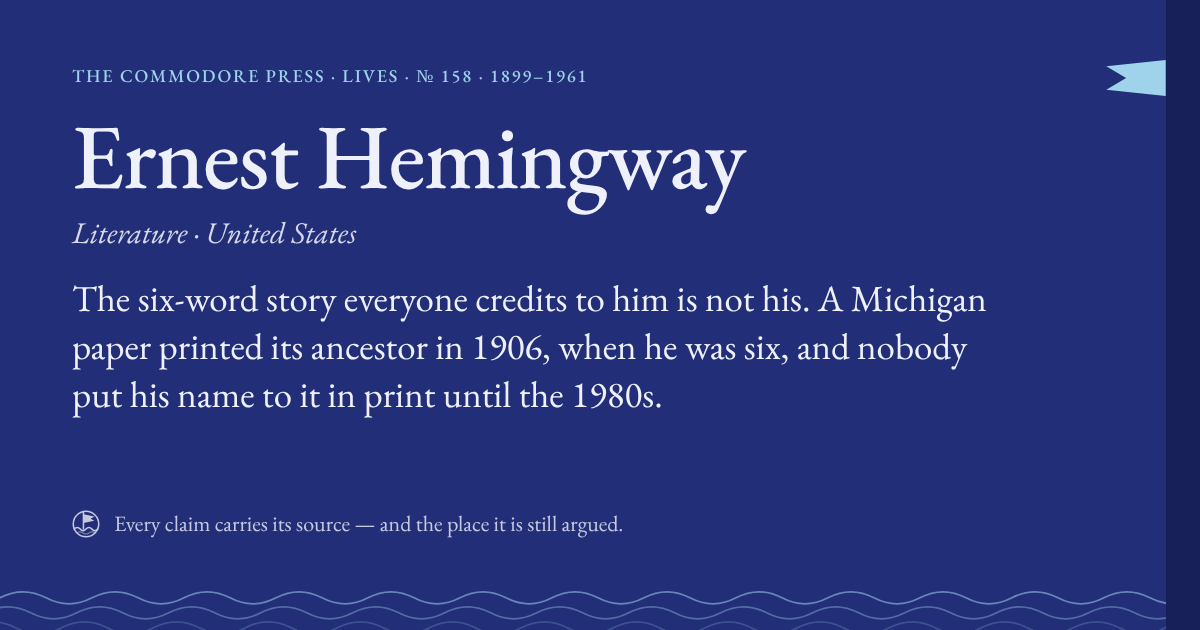
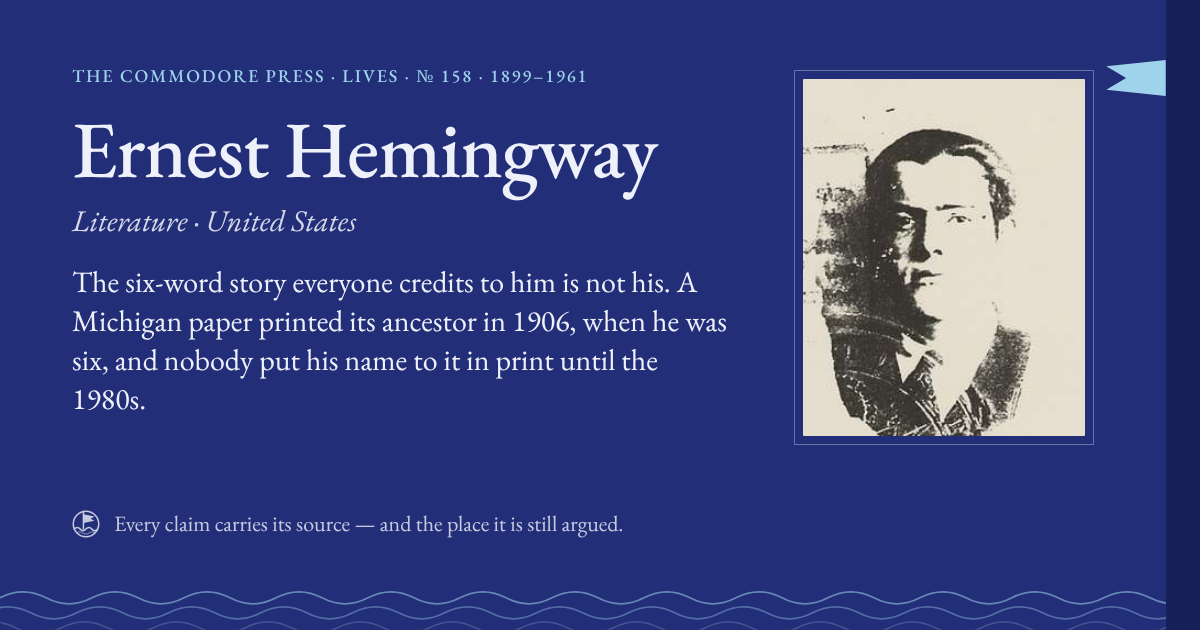
Hemingway's plate, from his 1921 passport
NARA 192687, public domain as a State Department work, cut from Commons'
1920px rendering (the original kept returning HTTP 429). The Anefo 'CC0'
head was rejected: it is a 1970 rephotograph of another photographer's
print, so the dedication does not reach the picture itself.

Claude-Session: https://claude.ai/code/session_014HRTUstFxiVmPduXRyZaCy

Changed region(s): [[0.0617, 0.1206, 0.925, 0.6937], [0.0617, 0.181, 0.6167, 0.3619], [0.0617, 0.3317, 0.3083, 0.3921]]

diff --git a/dashboard/commissions.md b/dashboard/commissions.md
@@ -24,7 +24,7 @@ in it carries a named source.
 | ready | Lives | Three more from *The Lessons of History*, № 155–157: Diocletian, Augustus, Ashoka | Picked by Luca 2026-11-03. Diocletian: the Durants have him say 'the barbarians were at the gate'; his Price Edict's own preamble (Kropff translation) opens on barbarian wars already won and names the soldier who loses his pay on one purchase; the failure rests on Lactantius alone, who also says the abdication was forced. Augustus: the advice to stop at the frontiers came after Varus lost three legions (Suetonius 23) and was read from a register in his own hand after his death (Tacitus 1.11), beside a Res Gestae that boasts of extending every frontier. Ashoka: Rock Edict XIII's count and remorse were left off the rocks in Kalinga itself, where XI–XIII were replaced by two special edicts (ASI documentation, Dhauli). Plates: Met CC0 aureus (293) and Met CC0 marble head; Cunningham's 1877 drawing of the Dhauli First Separate Edict, PD-old | `research-leads.md`, 2026-11-03 | Luca: read them. Hammurabi is the last of the scouted ancients |
 | ready | Lives | Four from *The Lessons of History*, № 151–154: Solon, Pericles, Wang Mang, Tiberius Gracchus | Picked by Luca 2026-11-03 from the scouting row. Each fixes the Durants' one-line case from the ancient text they compress, read as raw text. Solon: the friends who borrowed before the decree (Plutarch 15), and the debt relief argued both ways in antiquity; no 'twelve times' tax in Plutarch or the *Athenian Constitution*. Pericles: jury pay as a bid against Cimon's fortune (*Ath. Pol.* 27), and the citizenship law he had to ask the city to waive for his own son (Plutarch 37); 'the aristocracy prevailed' is one reading of three. Wang Mang: the AD 9 edict renamed slaves, and he lifted the ban on sales himself in AD 12 (Han shu 99B, Chinese text; Hu Shih 1922 quotes it), not his killers. Gracchus: the first law paid compensation; the confiscating one answered Octavius's veto (Plutarch 9–10). The scouting memo's '333 acres unexplained' was dropped: the Loeb's 'acres' renders an ancient measure, so the two may be one limit. Plates: Solon and Gracchus Rouillé 1553 (PD-old, captioned as imagined likenesses), Pericles Vatican bust (Jastrow, PD-self), Wang Mang a spade coin (CC0) | `research-leads.md`, 2026-11-03 | Luca: read them; then Diocletian, Augustus, Ashoka, Hammurabi when he wants the next four |
 | idea | Lives | More from Founders: Horace and John Dodge, Hans Wilsdorf, Sol Price; then Mozart, Socrates, Alexander, the Michelins | Scouted 2026-11-03 from the full feed (463 episodes). Dodge is the strongest: *Dodge v. Ford* (204 Mich. 459, opened) is the case cited for shareholder primacy, and the court left Ford's expansion alone and affirmed only the dividend. Wilsdorf: the 1927 Channel swim with the Oyster was abandoned (Sotheby's, opened); the advert of 24 November 1927 still to open. Sol Price: a trade-press source now dates FedMart, 3 December 1954 — not yet a primary. Unscouted but confirmed episodes: Oppenheimer, Escoffier, Royce, Kroc, Sloan, Mayer, Frank Lloyd Wright | `research-leads.md`, 2026-11-03 | Luca: pick; the Dodge plate is PD in the US only, with no author — his call |
-| ready | Lives | Ernest Hemingway, Yo-Yo Ma, Jiro Ono (№ 158–160) | Asked for by Luca 2026-11-25. Each fixes the popular version from a page opened and read. Hemingway: the six words are not his. Quote Investigator traces the form to a 1906 Ironwood News Record classified and a 1917 title by William R. Kane, and finds his name first in De Groot's play *Papa* (© 1984) and in Miller's 1991 book, which dates the anecdote to c. 1974. Yo-Yo Ma: the quartet did play on 20 January 2009, unamplified, but the broadcast carried a tape made two days earlier, and it was the only act to choose that (AP via NBC; CBS). Jiro Ono: Michelin did not strip the stars. It left the Ginza counter out of Tokyo 2020 because general clientele could no longer book (Japan Times, 26 Nov 2019). The film's meal was shot outside business hours (NPR review). Plates: Yo-Yo Ma from a US State Department photo, 20 Apr 2015 (PD, 17 U.S.C. §105). Jiro Ono cropped from Pete Souza's White House photo of 23 Apr 2014 (PD as a federal work); the White House asks that its photographs not be manipulated or used to suggest endorsement, which is a request rather than a licence term; Obama and Abe are cropped out. Hemingway's 1921 passport photo (NARA 192687, PD US DOS) was chosen, but every download was rate-limited (HTTP 429), so he carries the press mark for now | `dashboard/research-leads.md`, 2026-11-25 | Luca: read, then publish; make Hemingway's plate from the passport photo when Wikimedia serves it (`plate.mjs` needs macOS `sips`) |
+| ready | Lives | Ernest Hemingway, Yo-Yo Ma, Jiro Ono (№ 158–160) | Asked for by Luca 2026-11-25. Each fixes the popular version from a page opened and read. Hemingway: the six words are not his. Quote Investigator traces the form to a 1906 Ironwood News Record classified and a 1917 title by William R. Kane, and finds his name first in De Groot's play *Papa* (© 1984) and in Miller's 1991 book, which dates the anecdote to c. 1974. Yo-Yo Ma: the quartet did play on 20 January 2009, unamplified, but the broadcast carried a tape made two days earlier, and it was the only act to choose that (AP via NBC; CBS). Jiro Ono: Michelin did not strip the stars. It left the Ginza counter out of Tokyo 2020 because general clientele could no longer book (Japan Times, 26 Nov 2019). The film's meal was shot outside business hours (NPR review). Plates: Yo-Yo Ma from a US State Department photo, 20 Apr 2015 (PD, 17 U.S.C. §105). Jiro Ono cropped from Pete Souza's White House photo of 23 Apr 2014 (PD as a federal work); the White House asks that its photographs not be manipulated or used to suggest endorsement, which is a request rather than a licence term; Obama and Abe are cropped out. Hemingway's plate is cut from his 1921 passport (NARA 192687, PD US DOS), taken from Commons' 1920px rendering because the original kept returning HTTP 429; it is a rough copy and looks it. Rejected: the Anefo 'CC0' head (924-0503), which is a 1970 rephotograph of someone else's print, photographer unknown | `dashboard/research-leads.md`, 2026-11-25 | Luca: read, then publish |
 | idea | Lives | LGBTQ lives, mostly men: Rustin, Turing, Kameny, Hirschfeld, Alan L. Hart, Keynes | Asked for by Luca 2026-11-17: people of note, mostly men, who overcame long odds. Of 157 Lives, only Geffen's (№ 95) addresses it. Scouted the same day by a `press-researcher` sweep of 13 names. Each of the six has a fix from a document. **Rustin:** Newsom's EO N-24-20 (4 Feb 2020, opened) pardons a 1953 vagrancy conviction (§ 647.5) that, the order says, his opponents used against him. The 1960 threat to leak a false rumour was Adam Clayton Powell's, not Thurmond's (Thurmond's attack was 1963). LOC plate, Leffler, 27 Aug 1963, no known restrictions. **Turing:** the 2013 pardon (gov.uk, opened) covered him alone; the 2017 law for the others came later. The inquest's suicide verdict is contested (Copeland). Plate tag needs a second look. **Kameny:** fired by the Army Map Service 1957; *Kameny v. Brucker* cert denied 1961; OPM director Berry's 2009 letter of apology (text read; date unresolved). No PD plate. **Hirschfeld:** Institute opened 1919, looted 6 May 1933; who did it and when the books burned vary by source. **Hart:** trans man and physician, outed 1918 and forced to resign; later ran TB X-ray screening for Connecticut. The claim that he 'pioneered' X-ray screening is hedged even in his sources, and Saranac Lake used it by 1912. **Keynes:** best fit for the shelf, weakest on the odds. His UK stock portfolio returned 15.2% a year gross against 8.1% for 1924–46 (Chambers, Dimson & Foo, *JFQA* 2015), but that paper is still unopened. Held back: Halston, Hadrian, Glenn Burke (thin or off-shelf); Tom Ford, Tim Cook, Barry Diller, Pierre Bergé (living or privileged, little on the odds). | `research-leads.md`, section 2026-11-17 | Luca: pick which to write; decide whether the brief extends to living people (Cook, Ford, Diller) |
 | idea | Lives | Next candidates, unscouted | Luca asked on 2026-10-03 to find more. A scouting sweep for twelve names was cut off by a usage limit before it reported, so nothing here has been checked. Four have since been written — Rothschild (№ 115), Seacole (№ 105), Chanel (№ 99) and Morita (№ 94, which tells the Ibuka story) — and are struck from this list (2026-10-23). Mansa Musa, Cuffe and Maury have since been written (№ 142, 150, 141). Still unscouted: Takeo Fujisawa (who ran Honda) — he has no Founders episode (feed checked 2026-11-03) | each name's lead is in this cell; none opened | run the scout: one fix, one openable primary source and one lawful plate per name, then pick |
 | commissioned | Lives | Long Lives — one person, one book, read cover to cover | Asked for by Luca 2026-10-03: a place that tells people what is not mentioned enough, and goes all the way into it. It is the Founders episode in print, and the one thing the house cannot do without him: a biography read in full, by a named reader, with page numbers. That is also what makes it sourced — a page Luca read is an opened source; a book an agent could only search is a lead. **Proposed shape** (nothing built yet): a Long Life extends an existing Life — same id, plate and № — at `/l/<id>/long/`, written in Markdown like the Log (`content/lives/long/<id>.md`), signed and dated, in chapters: the situation · the turning points, each dated with its document · in their own words (verbatim, page-cited) · what the popular version gets wrong · what it cost · where it is contested · what I took from it (his, signed, held to the Log's rules) · what to read next. The three-paragraph Life stays as the index and gains one line: "The long version →". | the Life's own `bio` is the book; his reading notes with page numbers are the sources | Luca: pick the first book and read it with page numbers in the margin; decide the name (Long Lives is a working title). Then build the page type, its check (every quotation carries a page) and the first one together |
